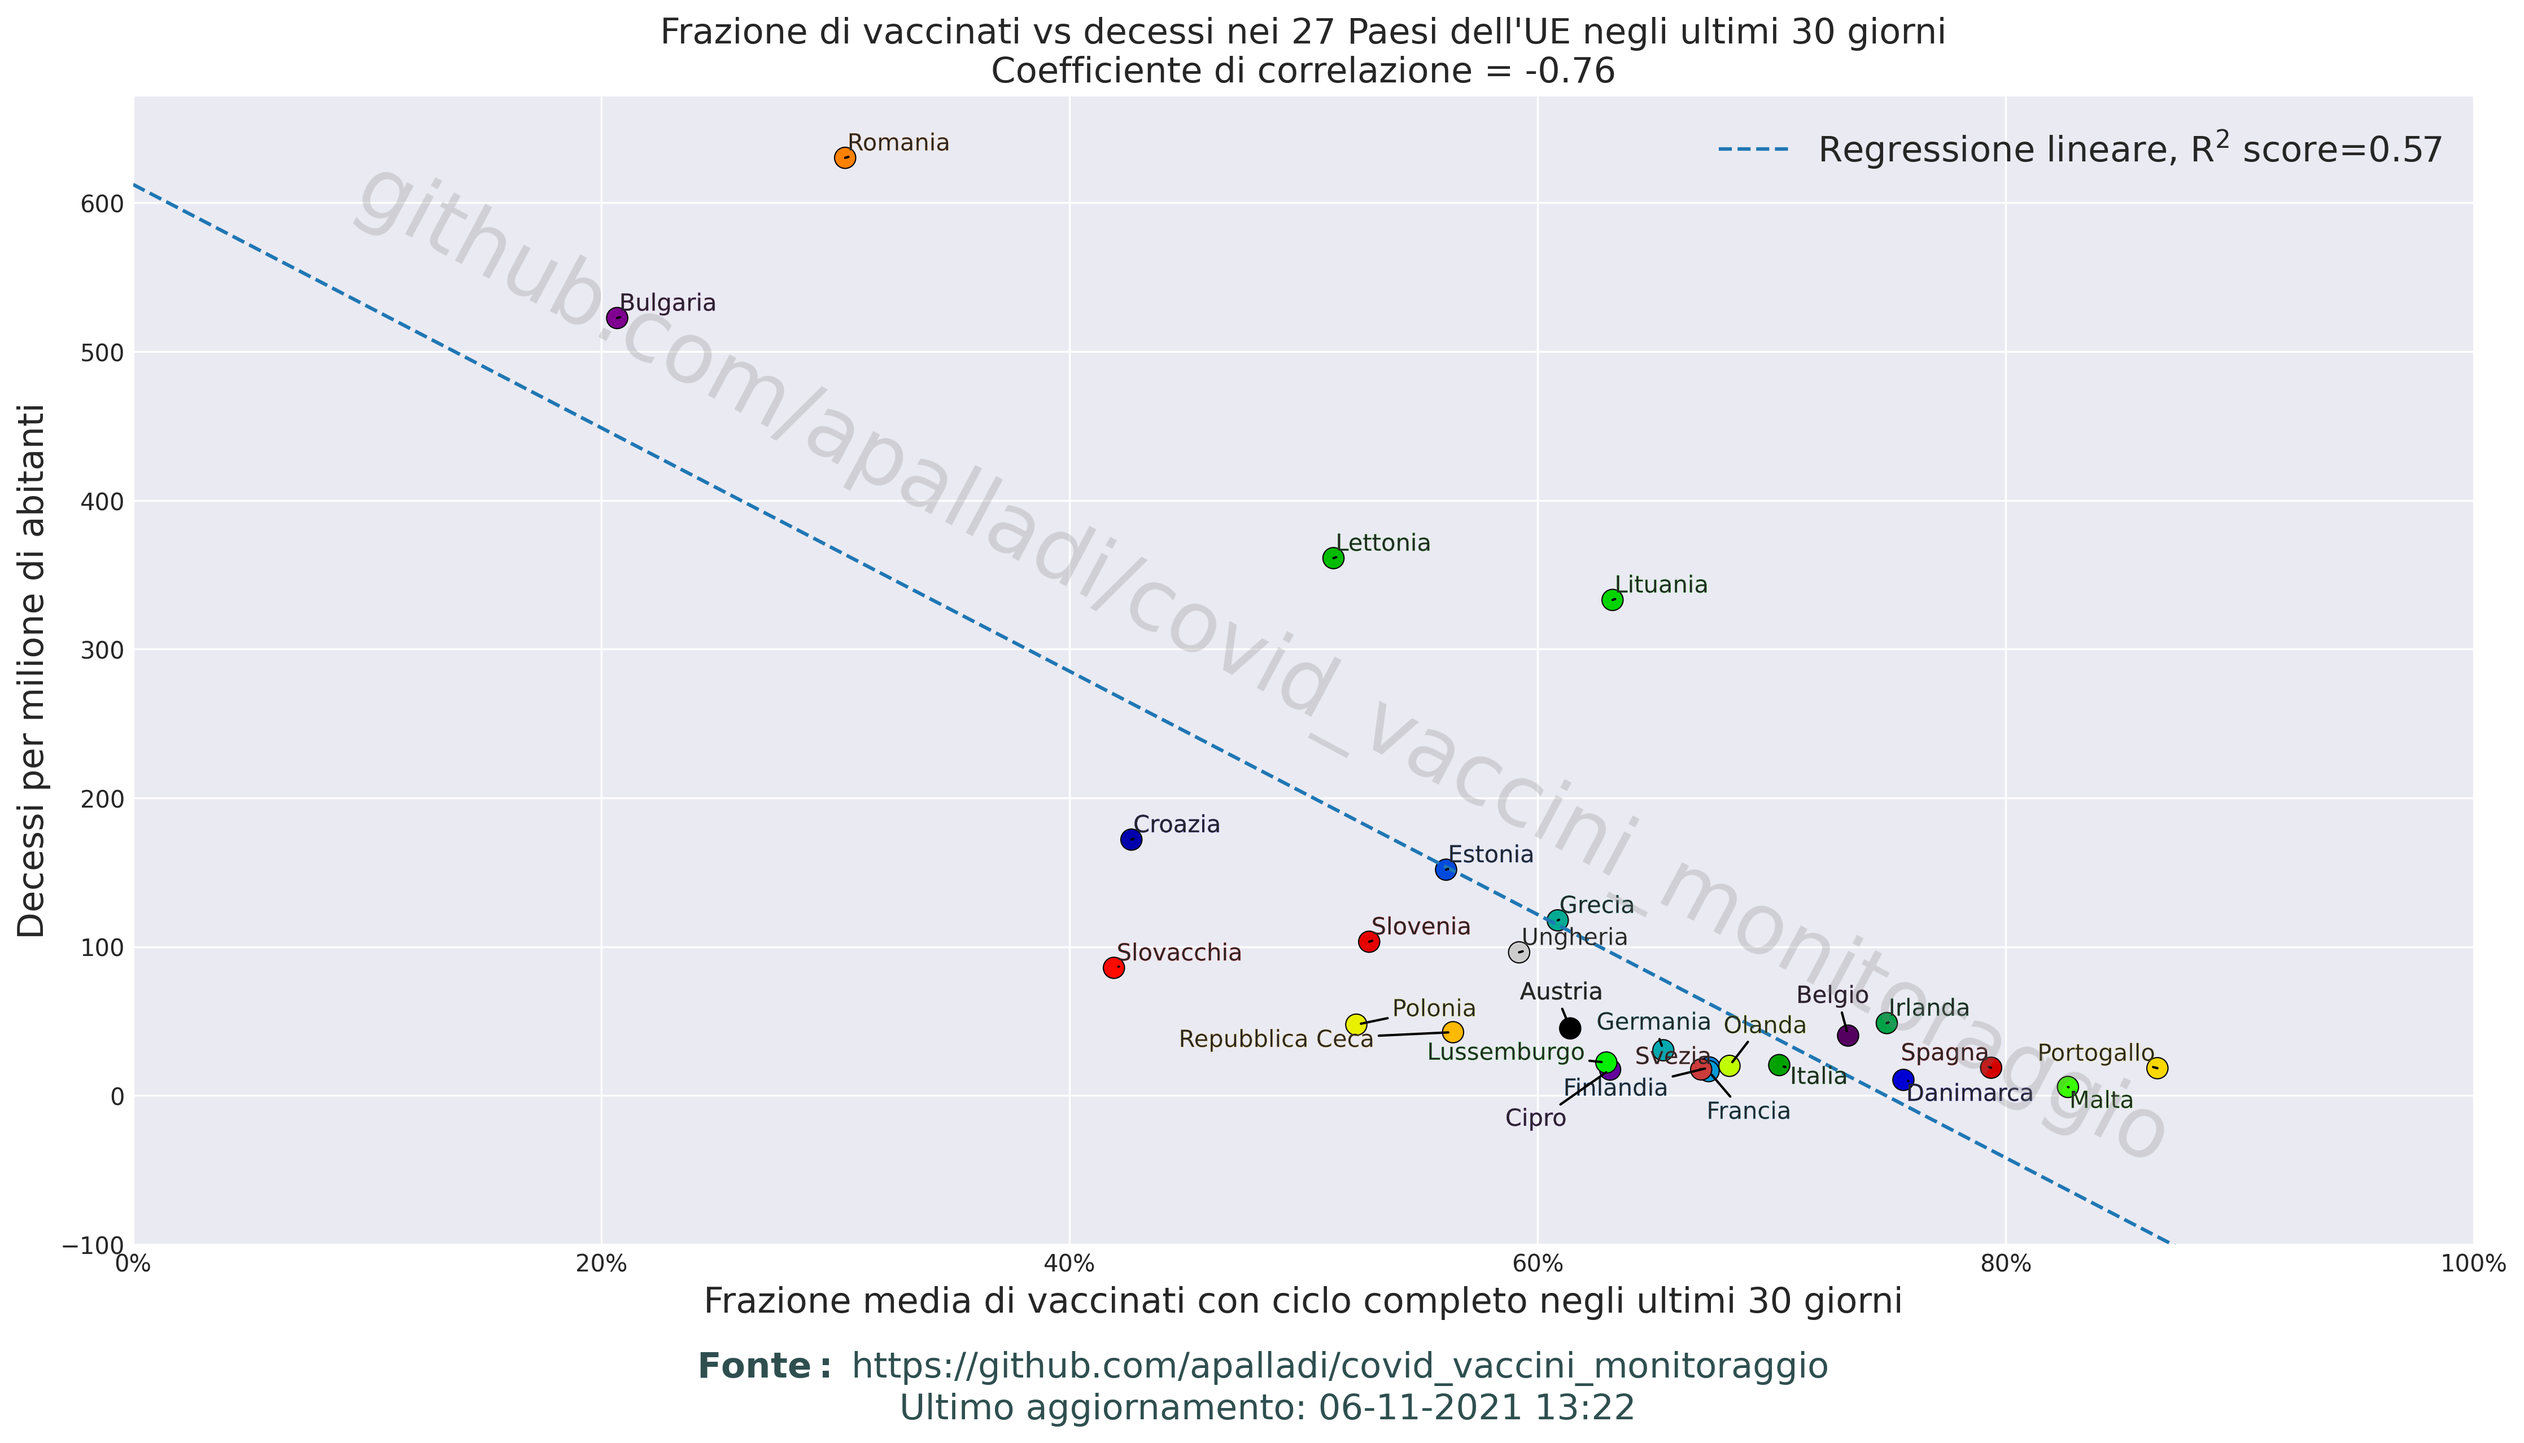
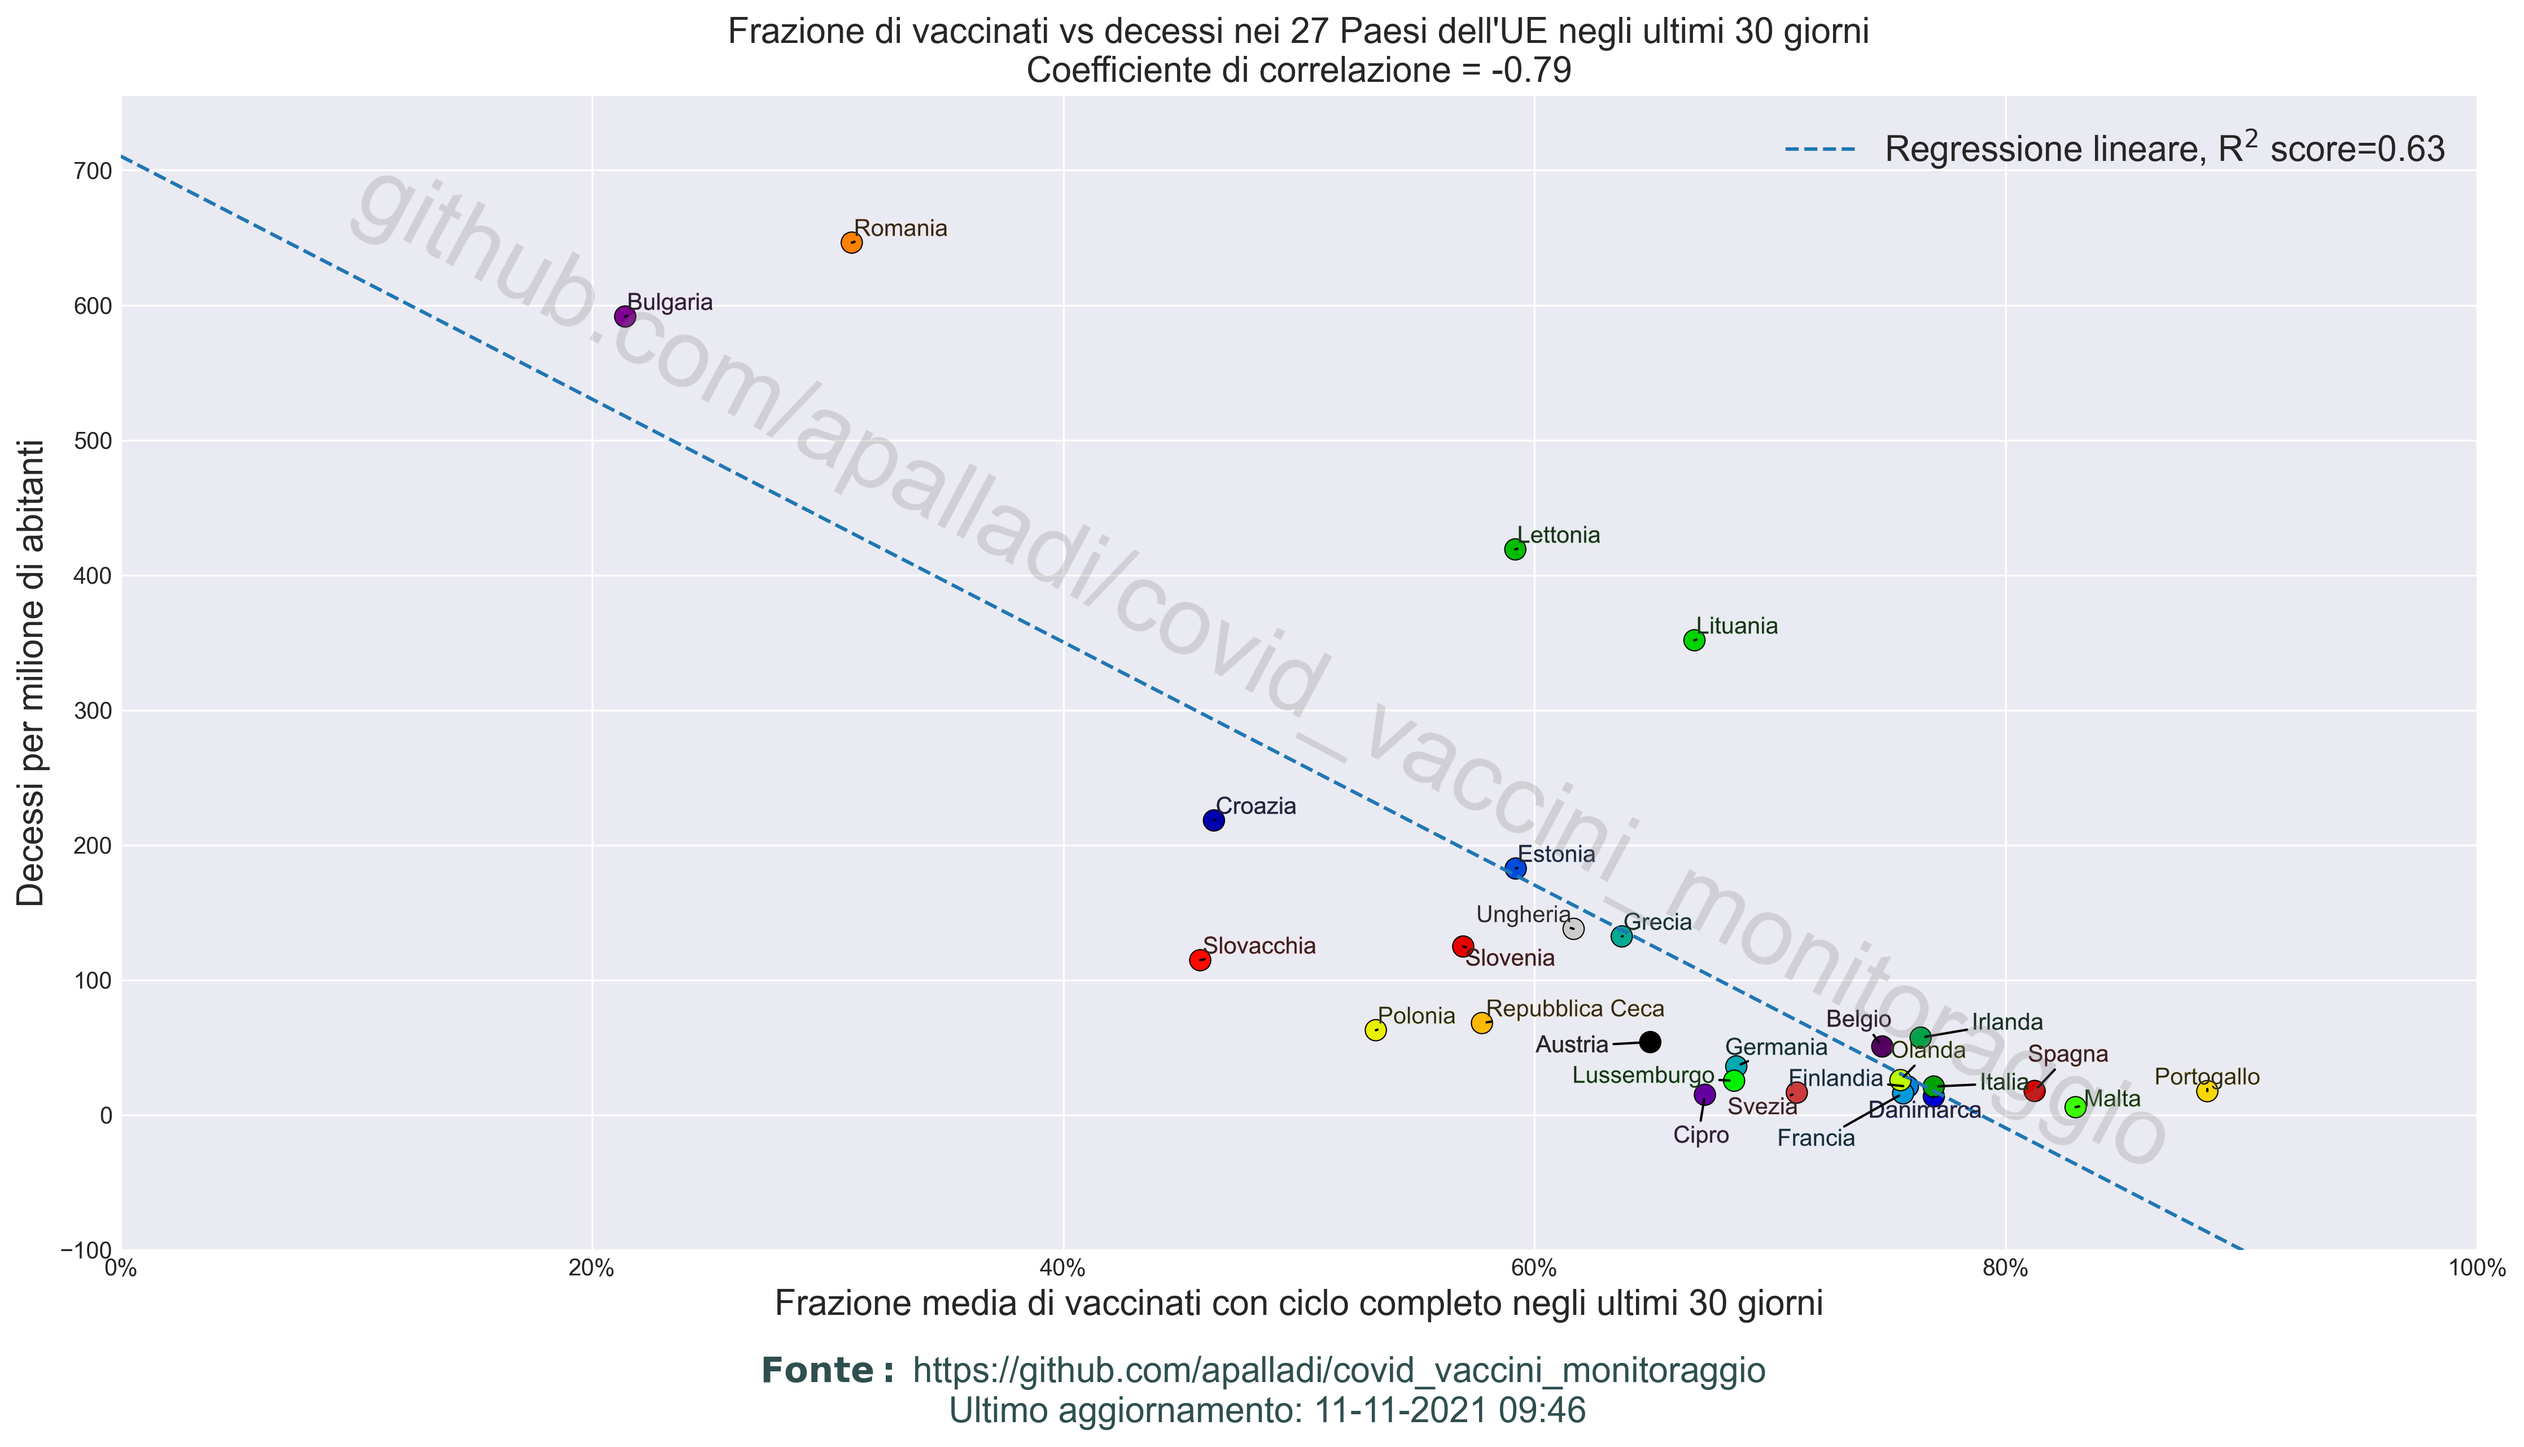
usa fully=False in correlazione vaccini-decessi

diff --git a/scripts/confronti_europei.py b/scripts/confronti_europei.py
@@ -98,7 +98,7 @@ def get_vaccine_data_last(country, time_window=30, t0=-1, fully=True, last_day=F
     df_vacc_country = df_vacc[df_vacc["location"] == country].iloc[2:, :]
     vacc_fully = np.array(df_vacc_country["people_fully_vaccinated_per_hundred"
                                           if fully else
-                                          "total_vaccinated_per_hundred"])
+                                          "people_vaccinated_per_hundred"])
     vacc_ultimi_Ngiorni = np.mean(vacc_fully[t0-(time_window+1):t0
                                              if last_day
                                              else -1])
@@ -326,7 +326,7 @@ if __name__ == "__main__":
     ideal_window = compute_max_correlation()
     window = 30  # giorni
     # recupera dati per tale finestra temporale
-    vacc_res_2021, dec_res_2021 = compute_vaccini_decessi_eu(window, fully=True, last_day=False)
+    vacc_res_2021, dec_res_2021 = compute_vaccini_decessi_eu(window, fully=False, last_day=False)
     x_grid, y_grid, score = linear_fit(vacc_res_2021, dec_res_2021)
     # calcola coefficiente di correlazione (pearson)
     corr_coeff = round(np.corrcoef(vacc_res_2021, dec_res_2021)[0, 1], 2)
